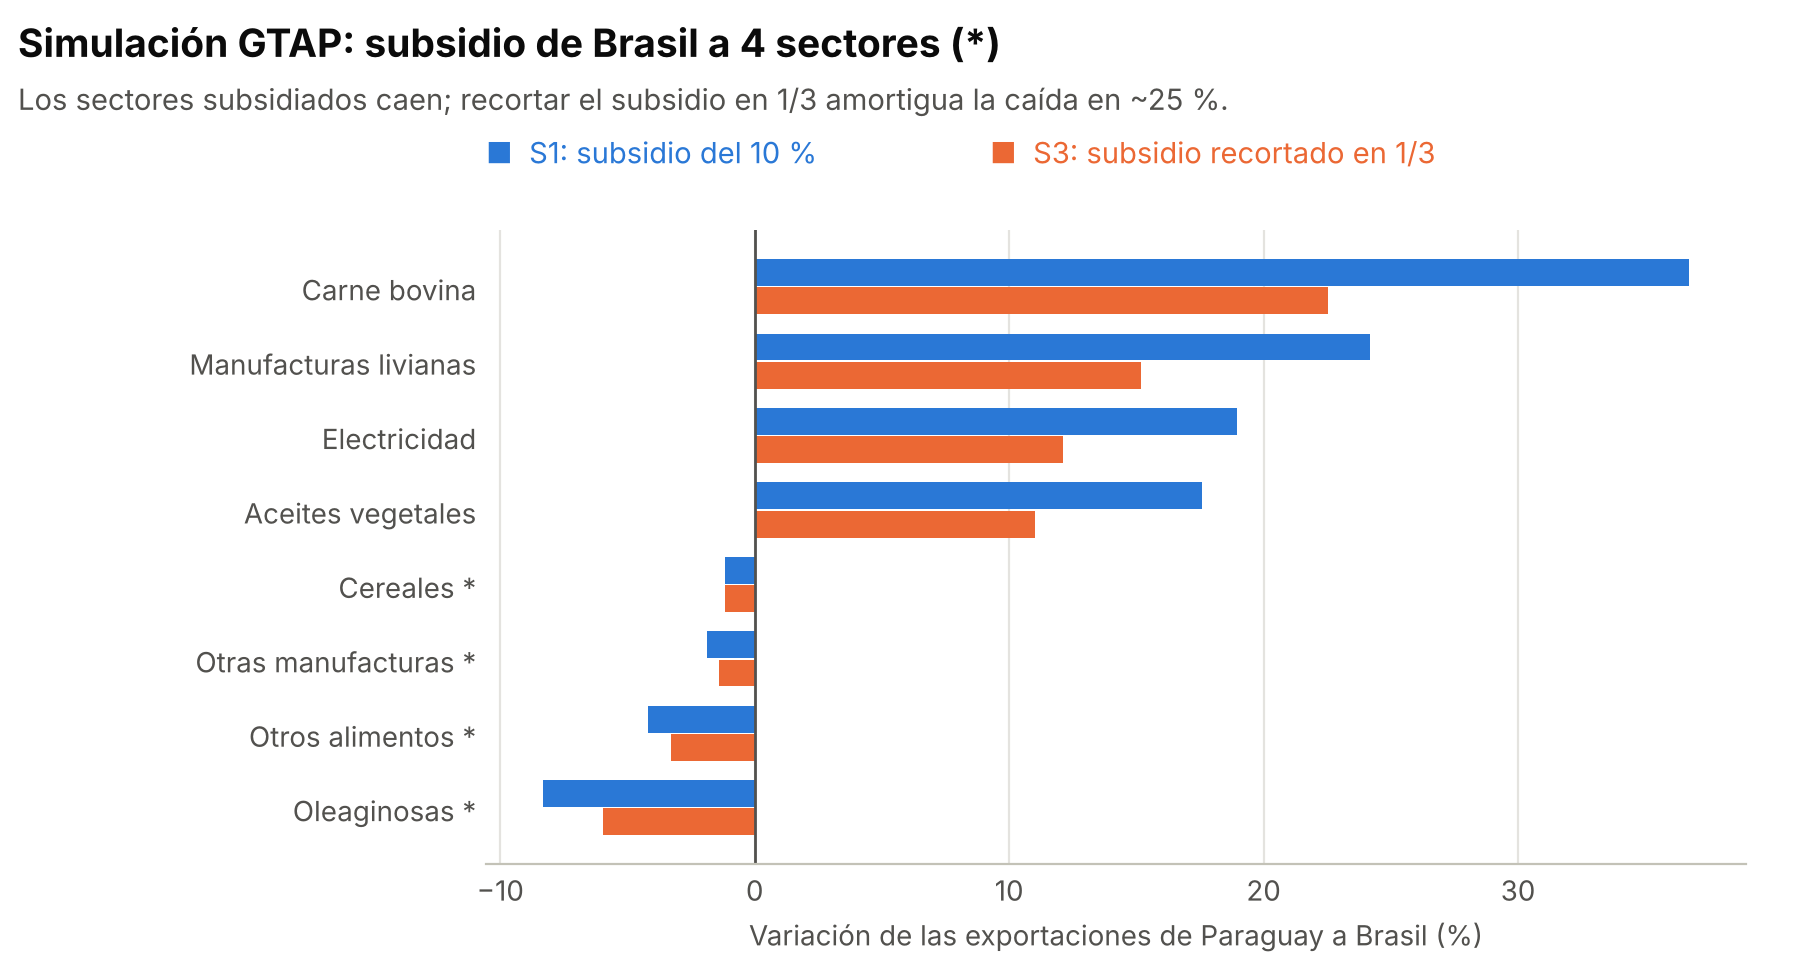
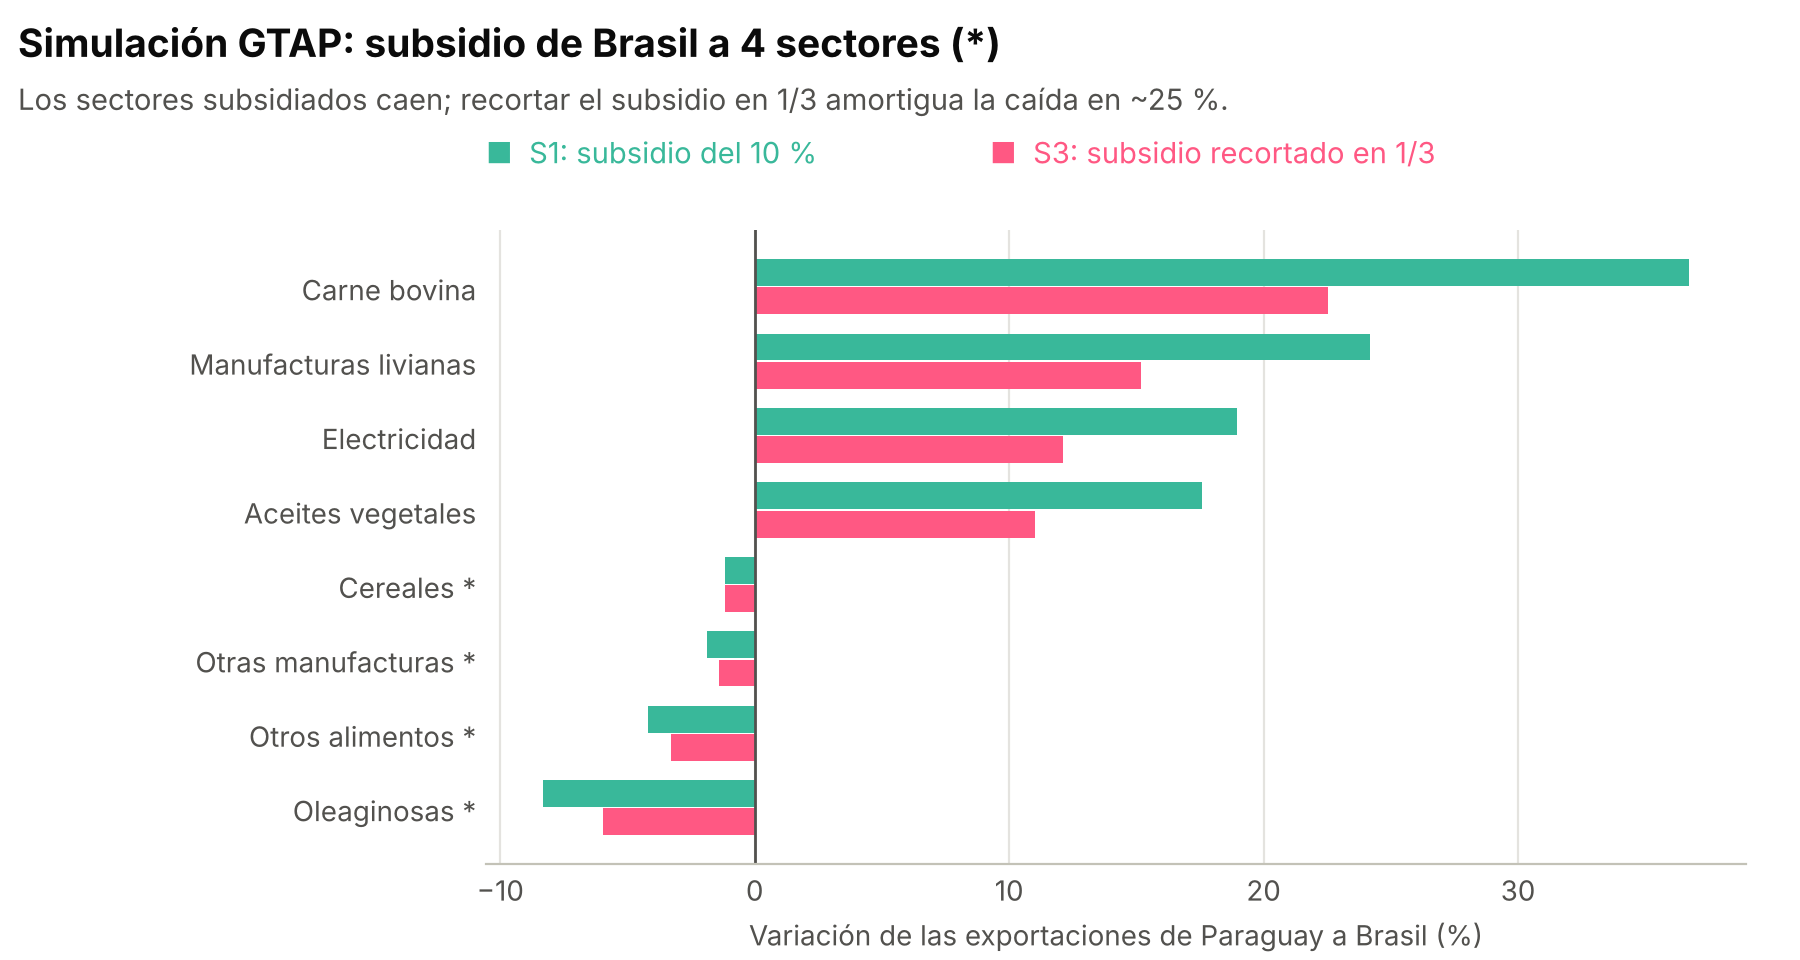
Gráficos con la nueva paleta de colores
Claude-Session: https://claude.ai/code/session_01LVp1DVkw8tc331QYQzTKYc

Changed region(s): [[0.28, 0.25, 0.9333, 0.875], [0.5289, 0.1562, 0.8089, 0.1875], [0.2489, 0.1562, 0.4356, 0.1875]]

diff --git a/resultados/figuras.py b/resultados/figuras.py
@@ -21,9 +21,9 @@ IMG.mkdir(parents=True, exist_ok=True)
 
 TEMAS = {
     "light": dict(texto="#0b0b0b", texto2="#52514e", grilla="#e4e3df", eje="#c3c2b7",
-                  s1="#2a78d6", s2="#eb6834", neutro="#a3a29b"),
+                  s1="#39b89a", s2="#ff5883", neutro="#fec9d7"),
     "dark": dict(texto="#f0efec", texto2="#c3c2b7", grilla="#33332f", eje="#52514e",
-                 s1="#3987e5", s2="#d95926", neutro="#6f6e68"),
+                 s1="#39b89a", s2="#ff91ad", neutro="#6b3a4a"),
 }
 
 
